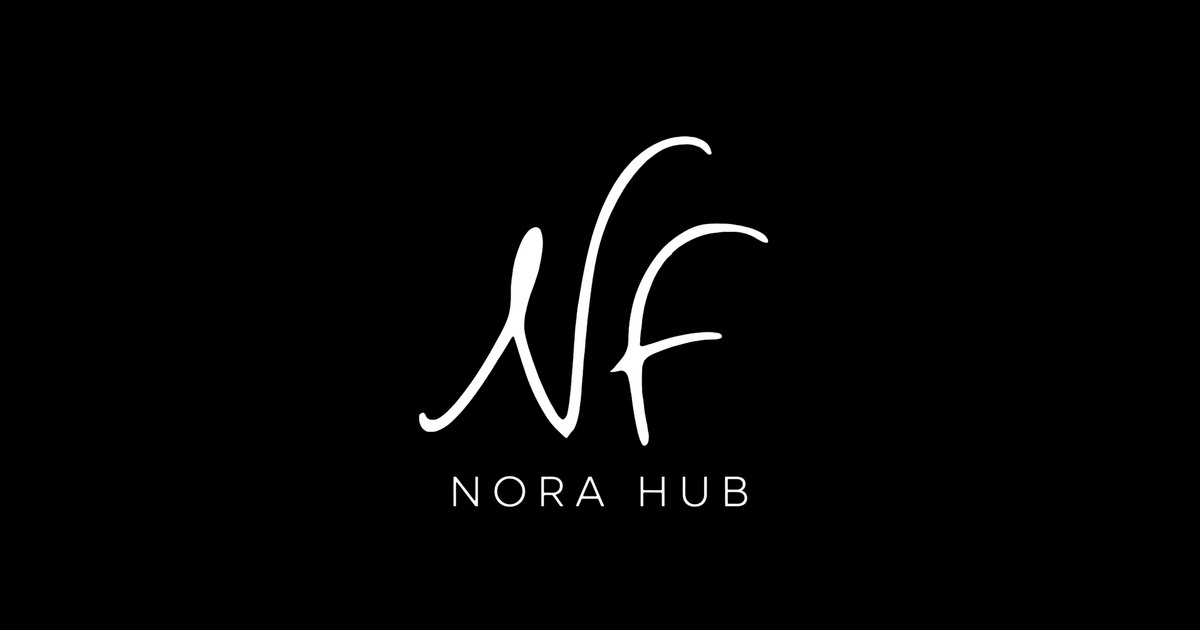
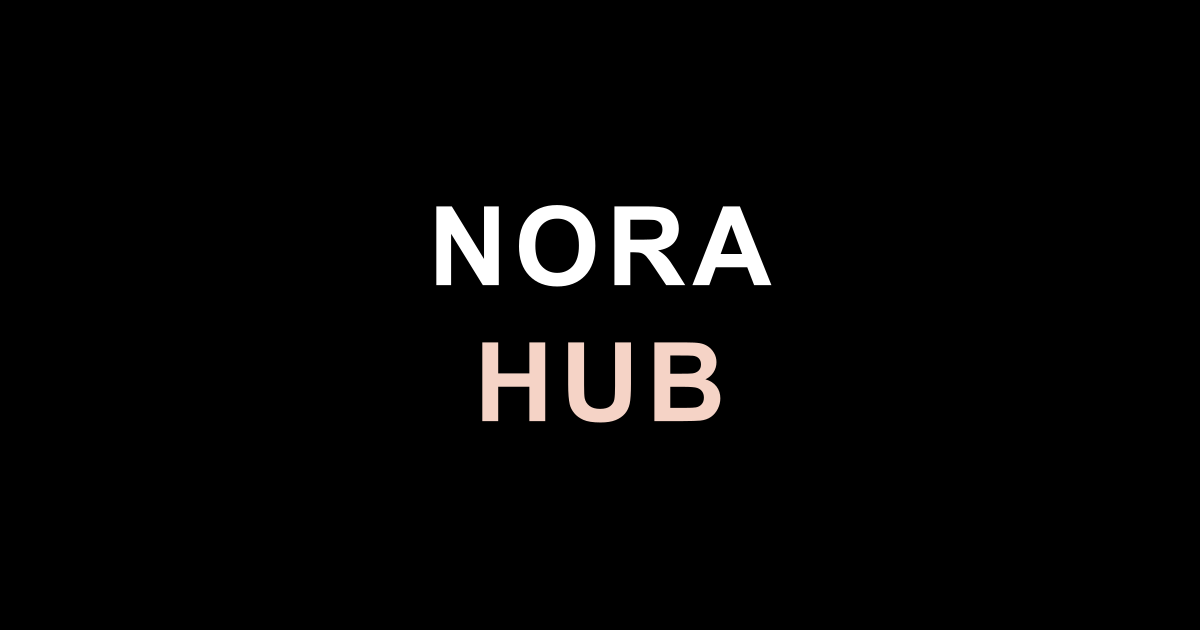
adjust dist

diff --git a/public/sw.js b/public/sw.js
@@ -1,18 +1,31 @@
 // Nora Hub Service Worker for PWA Offline support
-const CACHE_NAME = 'nora-hub-v1';
+//
+// Bump CACHE_VERSION on any deploy where you need to force a hard reset of
+// clients stuck on a broken cache. Under normal operation this isn't needed:
+// the app shell (index.html, manifest, favicon) is served network-first, so
+// each deploy is picked up automatically without a version bump. Vite's
+// build hashes JS/CSS filenames, so those can safely stay cache-first
+// forever - a content change always produces a new filename.
+const CACHE_VERSION = 'v2';
+const CACHE_NAME = `nora-hub-${CACHE_VERSION}`;
+
 // Paths are prefixed with /hub/ to match vite.config.ts's `base` option.
-const ASSETS_TO_CACHE = [
+const APP_SHELL = [
   '/hub/',
   '/hub/index.html',
   '/hub/manifest.json',
   '/hub/favicon.svg'
 ];
 
+function isAppShellRequest(request) {
+  if (request.mode === 'navigate') return true;
+  const path = new URL(request.url).pathname;
+  return APP_SHELL.includes(path);
+}
+
 self.addEventListener('install', (event) => {
   event.waitUntil(
-    caches.open(CACHE_NAME).then((cache) => {
-      return cache.addAll(ASSETS_TO_CACHE);
-    })
+    caches.open(CACHE_NAME).then((cache) => cache.addAll(APP_SHELL))
   );
   self.skipWaiting();
 });
@@ -34,6 +47,27 @@ self.addEventListener('activate', (event) => {
 
 self.addEventListener('fetch', (event) => {
   if (event.request.method !== 'GET') return;
+
+  // App shell: network-first, so a new deploy is visible on the very next
+  // load instead of waiting on cache invalidation. Falls back to cache only
+  // when offline.
+  if (isAppShellRequest(event.request)) {
+    event.respondWith(
+      fetch(event.request)
+        .then((response) => {
+          if (response && response.status === 200) {
+            const responseToCache = response.clone();
+            caches.open(CACHE_NAME).then((cache) => cache.put(event.request, responseToCache));
+          }
+          return response;
+        })
+        .catch(() => caches.match(event.request).then((cached) => cached || caches.match('/hub/index.html')))
+    );
+    return;
+  }
+
+  // Everything else (hashed build assets): cache-first is safe since a
+  // content change always produces a new filename.
   event.respondWith(
     caches.match(event.request).then((cachedResponse) => {
       if (cachedResponse) {
@@ -48,11 +82,6 @@ self.addEventListener('fetch', (event) => {
           cache.put(event.request, responseToCache);
         });
         return response;
-      }).catch(() => {
-        // Return index.html for navigation requests when offline
-        if (event.request.mode === 'navigate') {
-          return caches.match('/hub/index.html');
-        }
       });
     })
   );

diff --git a/src/components/HubCard.tsx b/src/components/HubCard.tsx
@@ -1,6 +1,6 @@
 import React from 'react';
 import { HubCardItem } from '../types';
-import * as LucideIcons from 'lucide-react';
+import { DynamicHubIcon } from './DynamicHubIcon';
 import { Sparkle } from './Sparkle';
 import { ExternalLink, Pin, MoreVertical, Edit2, Trash2, Copy, Check } from 'lucide-react';
 
@@ -21,9 +21,6 @@ export const HubCard: React.FC<HubCardProps> = ({
 }) => {
   const [showMenu, setShowMenu] = React.useState(false);
   const [copied, setCopied] = React.useState(false);
-
-  // Dynamically resolve Lucide Icon component
-  const IconComponent = (LucideIcons as Record<string, React.ElementType>)[card.icon] || LucideIcons.Compass;
 
   // Accent Styles Map
   const accentStyles = {
@@ -81,7 +78,7 @@ export const HubCard: React.FC<HubCardProps> = ({
       <div className="flex items-start justify-between gap-3 mb-4">
         <div className="flex items-center gap-3">
           <div className={`p-3 rounded-2xl ${currentAccent.bgIcon} transition-transform duration-300 group-hover:scale-105 shadow-xs`}>
-            <IconComponent className="w-6 h-6 sm:w-7 sm:h-7" />
+            <DynamicHubIcon name={card.icon} className="w-6 h-6 sm:w-7 sm:h-7" />
           </div>
 
           <div>

diff --git a/src/components/DynamicHubIcon.tsx b/src/components/DynamicHubIcon.tsx
@@ -1,0 +1,26 @@
+import React from 'react';
+import { Compass } from 'lucide-react';
+import { DynamicIcon, type IconName } from 'lucide-react/dynamic';
+
+interface DynamicHubIconProps {
+  name: string;
+  className?: string;
+}
+
+// Card icons are stored as free-text Lucide PascalCase names (e.g. "FolderKanban"),
+// but lucide-react's lazy loader keys its icons by kebab-case (e.g. "folder-kanban").
+const toKebabCase = (value: string): string =>
+  value.replace(/([a-z0-9])([A-Z])/g, '$1-$2').toLowerCase();
+
+// Loads only the single icon a card actually needs instead of bundling the
+// entire ~1500-icon library (see HubCard.tsx history: `import * as LucideIcons`
+// pulled in every icon and was most of the app's JS bundle size).
+export const DynamicHubIcon: React.FC<DynamicHubIconProps> = ({ name, className }) => {
+  return (
+    <DynamicIcon
+      name={toKebabCase(name) as IconName}
+      className={className}
+      fallback={() => <Compass className={className} />}
+    />
+  );
+};

diff --git a/README.md b/README.md
@@ -25,7 +25,7 @@ No backend. Everything (PIN, cards, notes, testimonials) lives in `localStorage`
 - A shareable link (any URL containing `testimonio`, e.g. `#dejar-testimonio`) bypasses the PIN entirely and opens a public testimonial submission form instead — for students/colleagues to leave a review without seeing the private dashboard.
 
 **Dashboard**
-- Cards are searchable and filterable by category (Principal, Gestión, Prensa, Comunidad, Recursos).
+- Cards are filterable by category (Principal, Gestión, Prensa, Comunidad, Recursos).
 - Cards can be pinned (surfaced in a "Destacados" section), edited, deleted, or added from scratch via a form modal — no JSON editing required.
 - A card's `actionType` decides what a tap does: open a URL in a new tab, or open one of the in-app modals (press kit, testimonials, notebook).
 
@@ -36,7 +36,7 @@ No backend. Everything (PIN, cards, notes, testimonials) lives in `localStorage`
 
 **Installable**
 - Full PWA: web manifest with maskable icons, offline-capable service worker, install prompts on both Android/desktop (native `beforeinstallprompt`) and iOS (manual "Add to Home Screen" walkthrough, since Safari has no native prompt).
-- A short branded loading screen (black background, the NF mark, a sweeping progress bar) covers the first paint while fonts settle in, so nothing flashes unstyled.
+- A short branded loading screen (black background, the "Nora Hub" wordmark, a sweeping progress bar) covers the first paint while fonts settle in, so nothing flashes unstyled.
 
 ## Styles
 
@@ -62,9 +62,9 @@ Cards and chrome (header, bottom nav) sit on plain white surfaces so they read c
 **Motion** — soft, never sharp: drifting watercolor blur spots, twinkling sparkle accents, a gentle pulse, and a fade-in used across every modal. All defined as custom keyframes in `src/index.css` rather than a JS animation library.
 
 **Brand marks**
-- The only logo used in the running app is Nora's actual signature (`public/logo-nora-black.png` / `logo-nora-white.png`), rendered via the `SignatureLogo` component — no generated/vector approximation.
-- The app icon is a separate mark: an "NF" monogram over "HUB" in white on black (`public/nf-mark.png`), used for the PWA icon, favicon, and the loading screen.
-- The footer credits the studio with a plain, transparent Okto wordmark — nothing else in the footer.
+- There is no logo image in the running app — the "Nora Hub" identity is pure typography, everywhere: header, lock screen, loading screen, and the public testimonial view all render the `NoraHubWordmark` component (`"Nora"` in ink/white + `"Hub"` in the red/pink accent, `font-label`). This deliberately separates the app's own identity from Nora Filmus's personal signature/monogram, which the app no longer uses at all.
+- The favicon, PWA icon, and social-share image are generated from that same wordmark — "NORA" / "HUB" stacked as text on black — via `scripts/gen-icons.mjs` (no external logo file; re-run it after changing `NoraHubWordmark`'s colors).
+- The footer credits the studio with a plain, transparent Okto wordmark — the only image-based logo left in the project, and unrelated to the Nora Hub identity above.
 
 ## Tech stack
 
